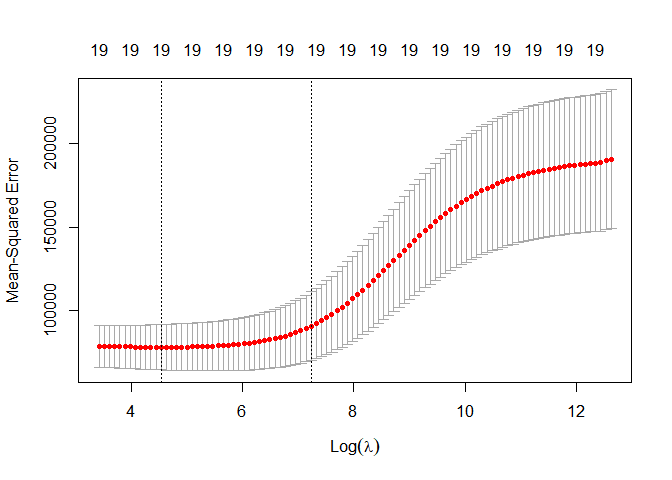
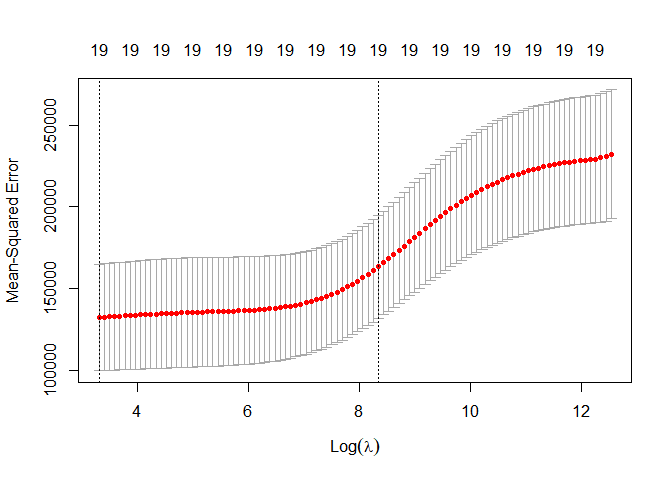
Update chapter 6.Rmd

diff --git a/chapter 6/before6.md b/chapter 6/before6.md
@@ -265,24 +265,43 @@ coef(regfit.bwd, 7)
 
 #### 3\. Choose model using Validation set or Cross-Validation
 
+``` r
+## set.seed(1)
+train = sample(c(T, F), nrow(Hitters), rep = T)
+test = (!train)
+```
+
 Hitters의 행수만큼 t, f 랜덤 반복으로 생성
+
+``` r
+regfit.best = regsubsets(Salary~., Hitters[train,], nvmax = 19)
+test.mat = model.matrix(Salary~., Hitters[test,])
+val.errors = rep(NA, 19)
+for(i in 1:19) {
+  coefi = coef(regfit.best, id = i)
+  pred = test.mat[, names(coefi)] %*% coefi
+  val.errors[i] = mean((Hitters$Salary[test] - pred)^2)
+}; rm(i)
+```
 
 ``` r
 val.errors
 ```
 
-    ##  [1] 141332.3 112914.7 127949.2 121123.0 114817.4 108075.6 110089.1 112934.9
-    ##  [9] 113345.9 117390.7 111723.8 110274.1 111706.0 111184.2 114779.8 114431.4
-    ## [17] 114750.7 114224.5 114216.0
+    ##  [1] 196014.0 173174.3 166121.9 160902.9 155443.3 162018.9 162536.7 164660.7
+    ##  [9] 163511.2 160549.5 154266.4 149910.4 152369.1 152760.7 153304.3 154004.2
+    ## [17] 154450.4 154981.1 154465.5
 
 ``` r
 coef(regfit.best, which.min(val.errors))
 ```
 
-    ##  (Intercept)        AtBat         Hits        Walks         CRBI    DivisionW 
-    ##  204.9850383   -3.0895690   11.1756877    3.2030500    0.7367803 -125.3417073 
-    ##      PutOuts 
-    ##    0.2466557
+    ## (Intercept)       AtBat        Hits       HmRun       Walks       Years 
+    ## -72.1388698  -0.7272083   5.0523282  -5.9465642   2.7387733  15.3712472 
+    ##      CAtBat       CRuns        CRBI      CWalks     LeagueN   DivisionW 
+    ##  -0.2214526   1.2690904   1.2249595  -0.5408976  63.1476707 -48.6095678 
+    ##     PutOuts 
+    ##   0.1402312
 
 어후 생각보다 beta\_0랑 몇 개 회귀계수가 차이가 심하네, 그리고 errors의 최대값이 변해서 보여주는 회귀계수 수도 자꾸
 변함.
@@ -290,16 +309,43 @@ coef(regfit.best, which.min(val.errors))
 ##### custom predict for regsubsets function
 
 ``` r
+predict.regsubsets = function(object, newdata, id, ...) {
+  form = as.formula(object$call[[2]])
+  mat = model.matrix(form, newdata)
+  coefi = coef(object, id = id)
+  xvars = names(coefi)
+  mat[, xvars] %*% coefi
+}
+```
+
+``` r
 regfit.best = regsubsets(Salary~., Hitters, nvmax = 19)
 coef(regfit.best, which.min(val.errors))
 ```
 
-    ##  (Intercept)        AtBat         Hits        Walks         CRBI    DivisionW 
-    ##   91.5117981   -1.8685892    7.6043976    3.6976468    0.6430169 -122.9515338 
-    ##      PutOuts 
-    ##    0.2643076
+    ##  (Intercept)        AtBat         Hits         Runs        Walks       CAtBat 
+    ##  135.5194919   -2.0563475    7.5064072   -1.7965622    6.0619776   -0.1524448 
+    ##        CRuns         CRBI       CWalks      LeagueN    DivisionW      PutOuts 
+    ##    1.5589219    0.7775813   -0.8350722   39.0865444 -112.6442519    0.2842332 
+    ##      Assists 
+    ##    0.2434442
 
 ##### select model when different size
+
+``` r
+## set.seed(1)
+k = 10
+folds = sample(1:k, nrow(Hitters), replace = T)
+cv.errors = matrix(NA, k, 19, dimnames = list(NULL, paste(1:19)))
+
+for(i in 1:k) {
+  best.fit = regsubsets(Salary~., Hitters[folds != i,], nvmax = 19)
+  for(j in 1:19) {
+    pred = predict(best.fit, Hitters[folds == i,], id = j)
+    cv.errors[i, j] = mean((Hitters$Salary[folds == i] - pred)^2)
+  }
+}; rm(i); rm(j)
+```
 
 ``` r
 mean.cv.errors = apply(cv.errors, 2, mean)
@@ -307,11 +353,11 @@ mean.cv.errors
 ```
 
     ##        1        2        3        4        5        6        7        8 
-    ## 136537.5 116112.1 129703.1 132862.8 126218.2 113792.4 118507.0 108256.7 
+    ## 151415.7 133241.7 137678.4 135643.8 134219.0 124320.2 126449.9 115294.7 
     ##        9       10       11       12       13       14       15       16 
-    ## 108459.0 106809.0 109593.9 109109.8 112438.0 110775.6 111867.9 112232.7 
+    ## 114014.1 108798.9 109379.7 112030.3 113521.6 113869.3 114769.3 115060.4 
     ##       17       18       19 
-    ## 112057.6 111741.9 111824.8
+    ## 115309.0 115343.2 115155.2
 
 ``` r
 par(mfrow = c(1,1))
@@ -338,9 +384,19 @@ coef(reg.best, 11)
 와 역시 프로그래밍이 짱이야 alpha = 0이면 ridge고, 1이면 lasso야?<br /> 대단하다, 진짜 어지간히 하나로
 만들고 싶었나보다.
 
+``` r
+X = model.matrix(Salary~., Hitters)[, -1]
+y = Hitters$Salary
+```
+
 X: model의 예측변수들을 자동으로 수치화(더미화 포함)해서 matrix로 표현.
 
 #### 1\. Ridge
+
+``` r
+grid = 10^seq(10, -2, length = 100)
+ridge.mod = glmnet(X, y, alpha = 0, lambda = grid)
+```
 
   - 원래라면 함수가 자동으로 lambda를 설정했겠지만, 지금은 강제적으로 grid 영역 안에서 찾으라고 설정함.
   - 또 glmnet 함수는 자동으로 표준화해서 사용하므로, 이 기능이 필요없다면 standardize = F를 하자.
@@ -415,27 +471,38 @@ predict(ridge.mod, s = 50, type = "coefficients")[1:20,]
 
 #### validation set approach
 
+``` r
+## set.seed(1)
+train = sample(1:nrow(X), nrow(X)/2)
+test = (-train)
+y.test = y[test]
+```
+
+``` r
+ridge.mod = glmnet(X[train,], y[train], alpha = 0, lambda = grid, thresh = 1e-12)
+```
+
 ##### MSE hat
 
 ``` r
 mean((mean(y[train]) - y.test)^2)
 ```
 
-    ## [1] 215760.1
+    ## [1] 177850.2
 
 ``` r
 ridge.pred = predict(ridge.mod, s = 4, newx = X[test,])
 mean((ridge.pred - y.test)^2)
 ```
 
-    ## [1] 159493.6
+    ## [1] 108239.6
 
 ``` r
 ridge.pred = predict(ridge.mod, s = 1e10, newx = X[test,])
 mean((ridge.pred - y.test)^2)
 ```
 
-    ## [1] 215760.1
+    ## [1] 177850.1
 
 ``` r
 ridge.pred = predict(ridge.mod, s = 0, newx = X[test,])
@@ -456,26 +523,26 @@ lm(y ~ X, subset = train)
     ## 
     ## Coefficients:
     ## (Intercept)       XAtBat        XHits       XHmRun        XRuns         XRBI  
-    ##    -30.3437      -0.3961       3.3046      -9.6838      -1.7783       0.8223  
+    ##    225.2710      -1.2459       2.5196       7.5516       2.6381      -1.0935  
     ##      XWalks       XYears      XCAtBat       XCHits      XCHmRun       XCRuns  
-    ##      5.7262      -0.3566      -0.1339       1.2575       6.6666      -0.3503  
+    ##      3.7680      -4.9133      -0.5373       1.8119       0.3674       0.9568  
     ##       XCRBI      XCWalks     XLeagueN   XDivisionW     XPutOuts     XAssists  
-    ##     -1.5956      -0.4070      47.0654     -79.4426       0.2207      -0.1245  
+    ##      0.3330      -0.5412     -25.7487    -132.4662       0.3551       0.5416  
     ##     XErrors  XNewLeagueN  
-    ##      5.0003     -59.5255
+    ##     -6.4488      56.3378
 
 ``` r
 predict(ridge.mod, s = 0, type = "coefficients")[1:20,] ## exact = T
 ```
 
-    ## (Intercept)       AtBat        Hits       HmRun        Runs         RBI 
-    ## -30.5909659  -0.4031400   3.3487137  -9.6304778  -1.8184830   0.8074853 
-    ##       Walks       Years      CAtBat       CHits      CHmRun       CRuns 
-    ##   5.7422226  -0.3429590  -0.1309215   1.2338347   6.6226984  -0.3303117 
-    ##        CRBI      CWalks     LeagueN   DivisionW     PutOuts     Assists 
-    ##  -1.5760527  -0.4132847  46.7194094 -79.4596968   0.2204878  -0.1248610 
-    ##      Errors  NewLeagueN 
-    ##   5.0124241 -59.1269874
+    ##  (Intercept)        AtBat         Hits        HmRun         Runs          RBI 
+    ##  225.3772206   -1.2579356    2.5763843    7.5800212    2.5998357   -1.1016499 
+    ##        Walks        Years       CAtBat        CHits       CHmRun        CRuns 
+    ##    3.7953162   -5.1026991   -0.5314275    1.7848479    0.3404289    0.9712239 
+    ##         CRBI       CWalks      LeagueN    DivisionW      PutOuts      Assists 
+    ##    0.3449538   -0.5493695  -25.9030058 -132.4514142    0.3549658    0.5397729 
+    ##       Errors   NewLeagueN 
+    ##   -6.4374649   56.5884162
 
 ``` r
 ## set.seed(1)
@@ -490,7 +557,7 @@ bestlam = cv.out$lambda.min
 bestlam
 ```
 
-    ## [1] 93.17456
+    ## [1] 27.55538
 
   - 최적 ridge의 lambda 범위를 모아다 최솟값을 가져온 건데, 왜 seed가 필요할까.
   - 내부적으로 lambda를 찾을 때 resampling를 사용하는 건가.
@@ -502,7 +569,7 @@ ridge.pred = predict(ridge.mod, s = bestlam, newx = X[test,])
 mean((ridge.pred - y.test)^2)
 ```
 
-    ## [1] 154898
+    ## [1] 105698.4
 
 ##### lambda 구역을 설정하지 않은 적합을 해보자.
 
@@ -512,13 +579,13 @@ predict(out, type = "coefficients", s = bestlam)[1:20,]
 ```
 
     ##   (Intercept)         AtBat          Hits         HmRun          Runs 
-    ##  2.349469e+01 -1.350388e-01  1.433475e+00 -7.887635e-01  1.169917e+00 
+    ##  7.732447e+01 -6.408095e-01  2.666308e+00 -1.384049e+00  1.039996e+00 
     ##           RBI         Walks         Years        CAtBat         CHits 
-    ##  8.455914e-01  2.236319e+00 -3.207351e+00  9.405992e-03  8.504284e-02 
+    ##  7.281297e-01  3.296658e+00 -8.787386e+00 -1.202262e-04  1.326778e-01 
     ##        CHmRun         CRuns          CRBI        CWalks       LeagueN 
-    ##  5.521905e-01  1.689479e-01  1.775794e-01 -5.228094e-02  3.771676e+01 
+    ##  6.911234e-01  2.853960e-01  2.525259e-01 -2.635069e-01  5.249964e+01 
     ##     DivisionW       PutOuts       Assists        Errors    NewLeagueN 
-    ## -1.099122e+02  2.303289e-01  8.106120e-02 -2.703503e+00 -9.102023e-01
+    ## -1.224945e+02  2.626489e-01  1.641986e-01 -3.651728e+00 -1.722620e+01
 
 정말 ridge는 변수를 버릴 생각을 하지 않는구나.
 
@@ -549,7 +616,7 @@ lasso.pred = predict(lasso.mod, s = bestlam, newx = X[test,])
 mean((lasso.pred - y.test)^2)
 ```
 
-    ## [1] 158752.4
+    ## [1] 111401.8
 
 확실히 ridge랑 비슷한 값인 건만 알겠음.
 
@@ -560,13 +627,13 @@ lasso.coef
 ```
 
     ##   (Intercept)         AtBat          Hits         HmRun          Runs 
-    ##    1.13330530   -0.03681656    2.11666316    0.00000000    0.00000000 
+    ##  148.47005353   -1.86963995    6.48023063    0.74318790   -0.43858112 
     ##           RBI         Walks         Years        CAtBat         CHits 
-    ##    0.00000000    2.28336660   -0.22641303    0.00000000    0.00000000 
+    ##    0.00000000    5.37241599   -8.88140804   -0.03796356    0.00000000 
     ##        CHmRun         CRuns          CRBI        CWalks       LeagueN 
-    ##    0.02092321    0.21405170    0.41860656    0.00000000   19.06352253 
+    ##    0.38432164    0.95563867    0.49268060   -0.68200359   40.97231574 
     ##     DivisionW       PutOuts       Assists        Errors    NewLeagueN 
-    ## -115.50147435    0.23635272    0.00000000   -0.78443710    0.00000000
+    ## -117.61744368    0.28096830    0.26047170   -2.66957999   -5.33000840
 
 오 확실히 0인 건 있네. 랜덤성에 의해 12개가 0인 건 아니지만.
 
@@ -590,14 +657,14 @@ summary(pcr.fit)
     ## VALIDATION: RMSEP
     ## Cross-validated using 10 random segments.
     ##        (Intercept)  1 comps  2 comps  3 comps  4 comps  5 comps  6 comps
-    ## CV             452    355.9    354.7    354.5    352.8    347.9    345.1
-    ## adjCV          452    355.4    354.2    353.9    352.1    347.2    344.2
+    ## CV             452    351.6    350.2    350.5    347.7    347.6    345.2
+    ## adjCV          452    351.3    349.9    350.1    347.3    347.0    344.3
     ##        7 comps  8 comps  9 comps  10 comps  11 comps  12 comps  13 comps
-    ## CV       345.2    350.5    353.4     357.3     359.9     360.1     364.6
-    ## adjCV    344.4    349.4    352.1     355.6     358.1     358.3     362.6
+    ## CV       345.5    346.9    349.0     349.8     350.6     353.1     354.5
+    ## adjCV    344.6    345.9    347.9     348.6     349.2     351.7     352.9
     ##        14 comps  15 comps  16 comps  17 comps  18 comps  19 comps
-    ## CV        355.7     356.7     346.9     349.3     346.7     348.9
-    ## adjCV     353.3     354.5     344.9     346.9     344.3     346.4
+    ## CV        349.3     349.4     339.8     339.0     337.7     342.4
+    ## adjCV     347.6     347.7     338.1     337.3     335.9     340.3
     ## 
     ## TRAINING: % variance explained
     ##         1 comps  2 comps  3 comps  4 comps  5 comps  6 comps  7 comps  8 comps
@@ -634,7 +701,7 @@ pcr.pred = predict(pcr.fit, X[test,], ncomp = 7)
 mean((pcr.pred - y.test)^2)
 ```
 
-    ## [1] 159970.2
+    ## [1] 106402.2
 
 ``` r
 pcr.fit = pcr(y ~ X, scale = T, ncomp = 7)
@@ -666,25 +733,25 @@ summary(pls.fit)
     ## VALIDATION: RMSEP
     ## Cross-validated using 10 random segments.
     ##        (Intercept)  1 comps  2 comps  3 comps  4 comps  5 comps  6 comps
-    ## CV           438.8    281.9    280.8    279.2    278.7    277.3    276.5
-    ## adjCV        438.8    281.7    280.1    278.2    277.5    275.9    274.9
+    ## CV           481.8    374.2    378.2    384.2    386.9    391.5    388.4
+    ## adjCV        481.8    373.4    376.9    381.7    383.9    386.5    382.9
     ##        7 comps  8 comps  9 comps  10 comps  11 comps  12 comps  13 comps
-    ## CV       277.5    283.0    284.6     283.9     284.4     282.5     281.0
-    ## adjCV    276.0    280.6    282.2     281.1     281.7     280.1     278.7
+    ## CV       383.7    381.9    378.4     377.3     384.7     381.2     383.4
+    ## adjCV    378.5    377.2    374.3     372.6     379.6     376.4     378.6
     ##        14 comps  15 comps  16 comps  17 comps  18 comps  19 comps
-    ## CV        282.2     282.4     285.4     288.9     290.1     288.7
-    ## adjCV     279.8     280.1     282.6     285.9     287.0     285.9
+    ## CV        378.6     374.6     374.0     375.9     377.3     375.9
+    ## adjCV     373.9     370.3     369.7     371.4     372.8     371.3
     ## 
     ## TRAINING: % variance explained
     ##         1 comps  2 comps  3 comps  4 comps  5 comps  6 comps  7 comps  8 comps
-    ## X         37.87    53.40    66.44    74.43    79.10    85.57    89.26    91.18
-    ## Salary    59.89    63.15    64.98    66.17    67.79    68.37    68.68    69.25
+    ## X         41.38    54.24    66.42    72.17    75.40    77.87     81.3    86.88
+    ## Salary    45.06    49.42    51.69    54.17    57.31    58.87     59.4    59.87
     ##         9 comps  10 comps  11 comps  12 comps  13 comps  14 comps  15 comps
-    ## X         94.30     95.18     96.83     98.02     98.64     99.04     99.41
-    ## Salary    69.41     69.84     70.04     70.22     70.33     70.36     70.45
+    ## X         92.69     93.64     96.53     97.26     98.46     98.70     99.03
+    ## Salary    60.19     60.68     60.90     61.43     61.58     62.04     62.22
     ##         16 comps  17 comps  18 comps  19 comps
-    ## X          99.57     99.86     99.95    100.00
-    ## Salary     70.68     70.69     70.71     70.72
+    ## X          99.48     99.76     99.97    100.00
+    ## Salary     62.34     62.47     62.50     62.71
 
 > plsr( ), 얘도 data는 “data=”으로 써야 하는 poor한 함수군요.
 
@@ -701,7 +768,7 @@ pls.pred = predict(pls.fit, X[test,], ncomp = 2)
 mean((pls.pred - y.test)^2)
 ```
 
-    ## [1] 158968.9
+    ## [1] 114018
 
 ``` r
 pls.fit = plsr(Salary~., data = Hitters, scale = T, ncomp = 2)
